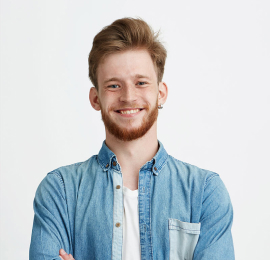
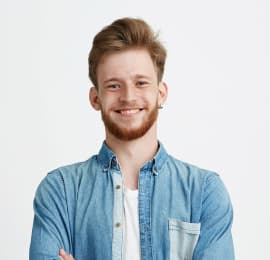
Добавляет фоновую картинку с линейным градиентом в секцию героя

diff --git a/css/styles.css b/css/styles.css
@@ -604,15 +604,15 @@ footer > .container {
 .main-foto {
   height: 600px;
   max-width: 1600px;
-  outline: 1px solid tomato;
-  background-image: 
-    rgba(47, 48, 58, 0.8),
-    url(../images/header.jpg)
-  );
+  background-image: linear-gradient(
+      to right,
+      rgba(47, 48, 58, 0.8),
+      rgba(47, 48, 58, 0.8)
+    ),
+    url("../images/header.jpg");
   background-color: #2f303a;
 
   margin-right: auto;
   margin-left: auto;
   background-position: center;
 }
-
